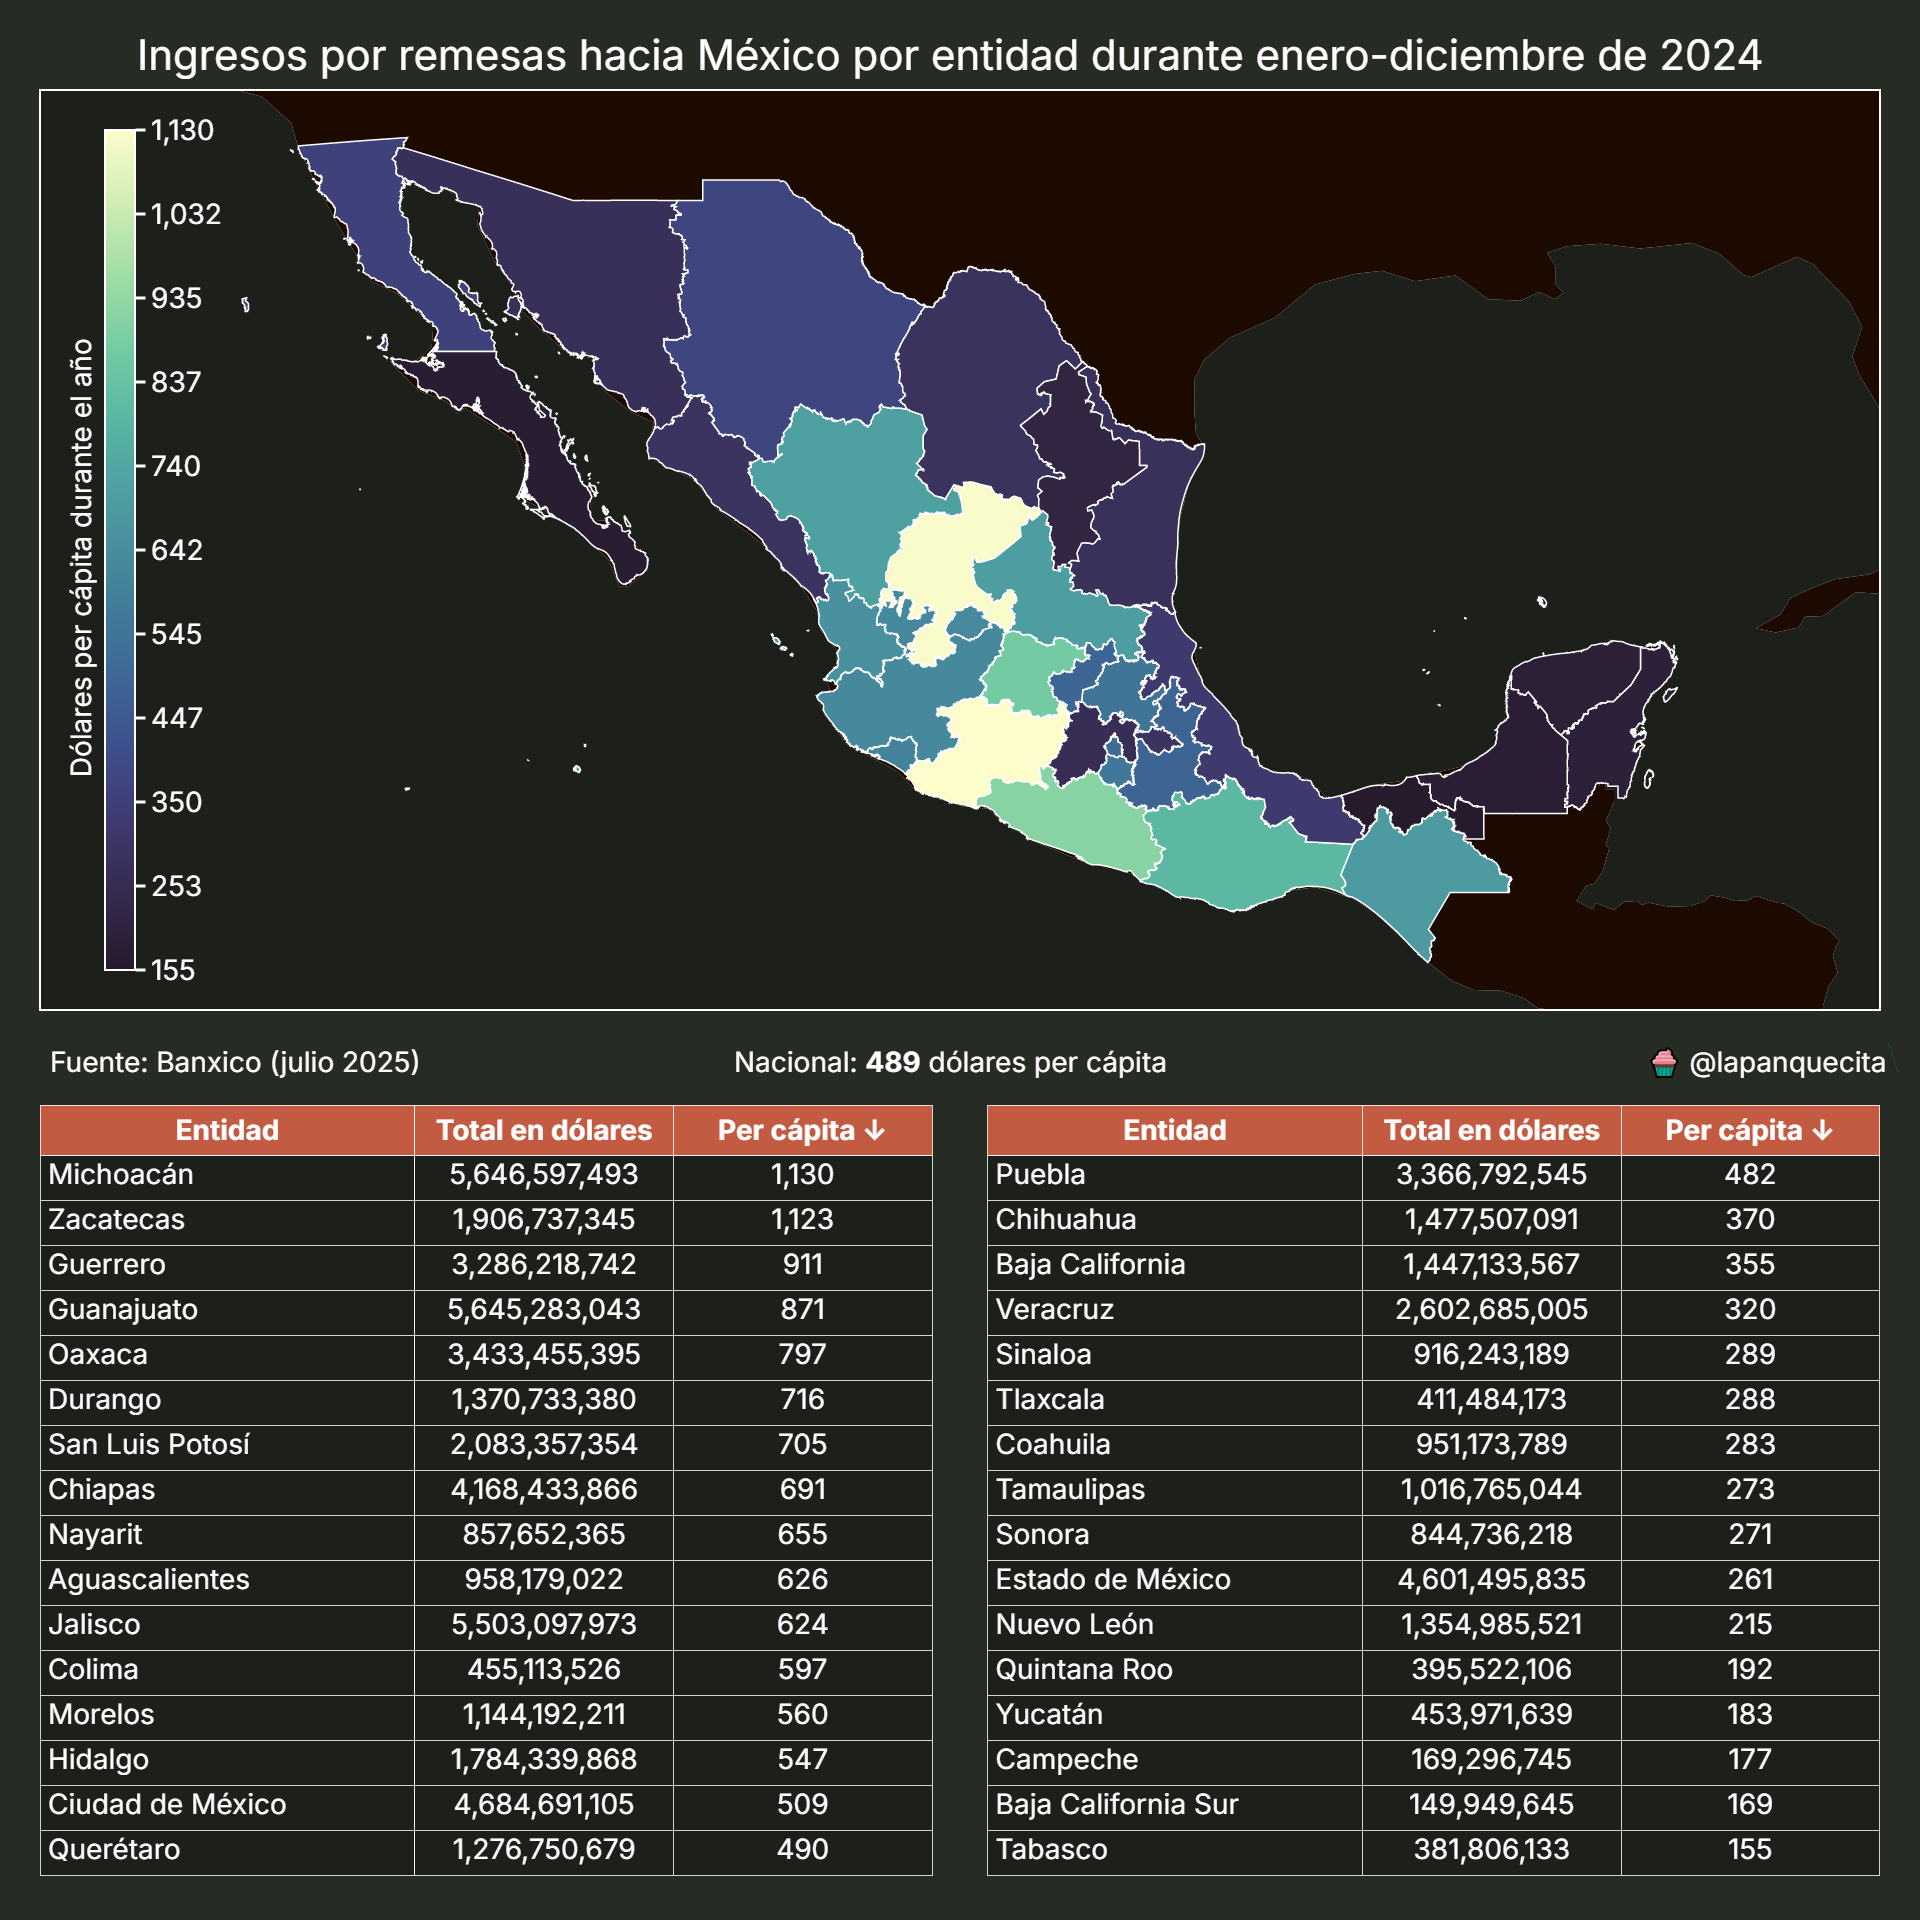
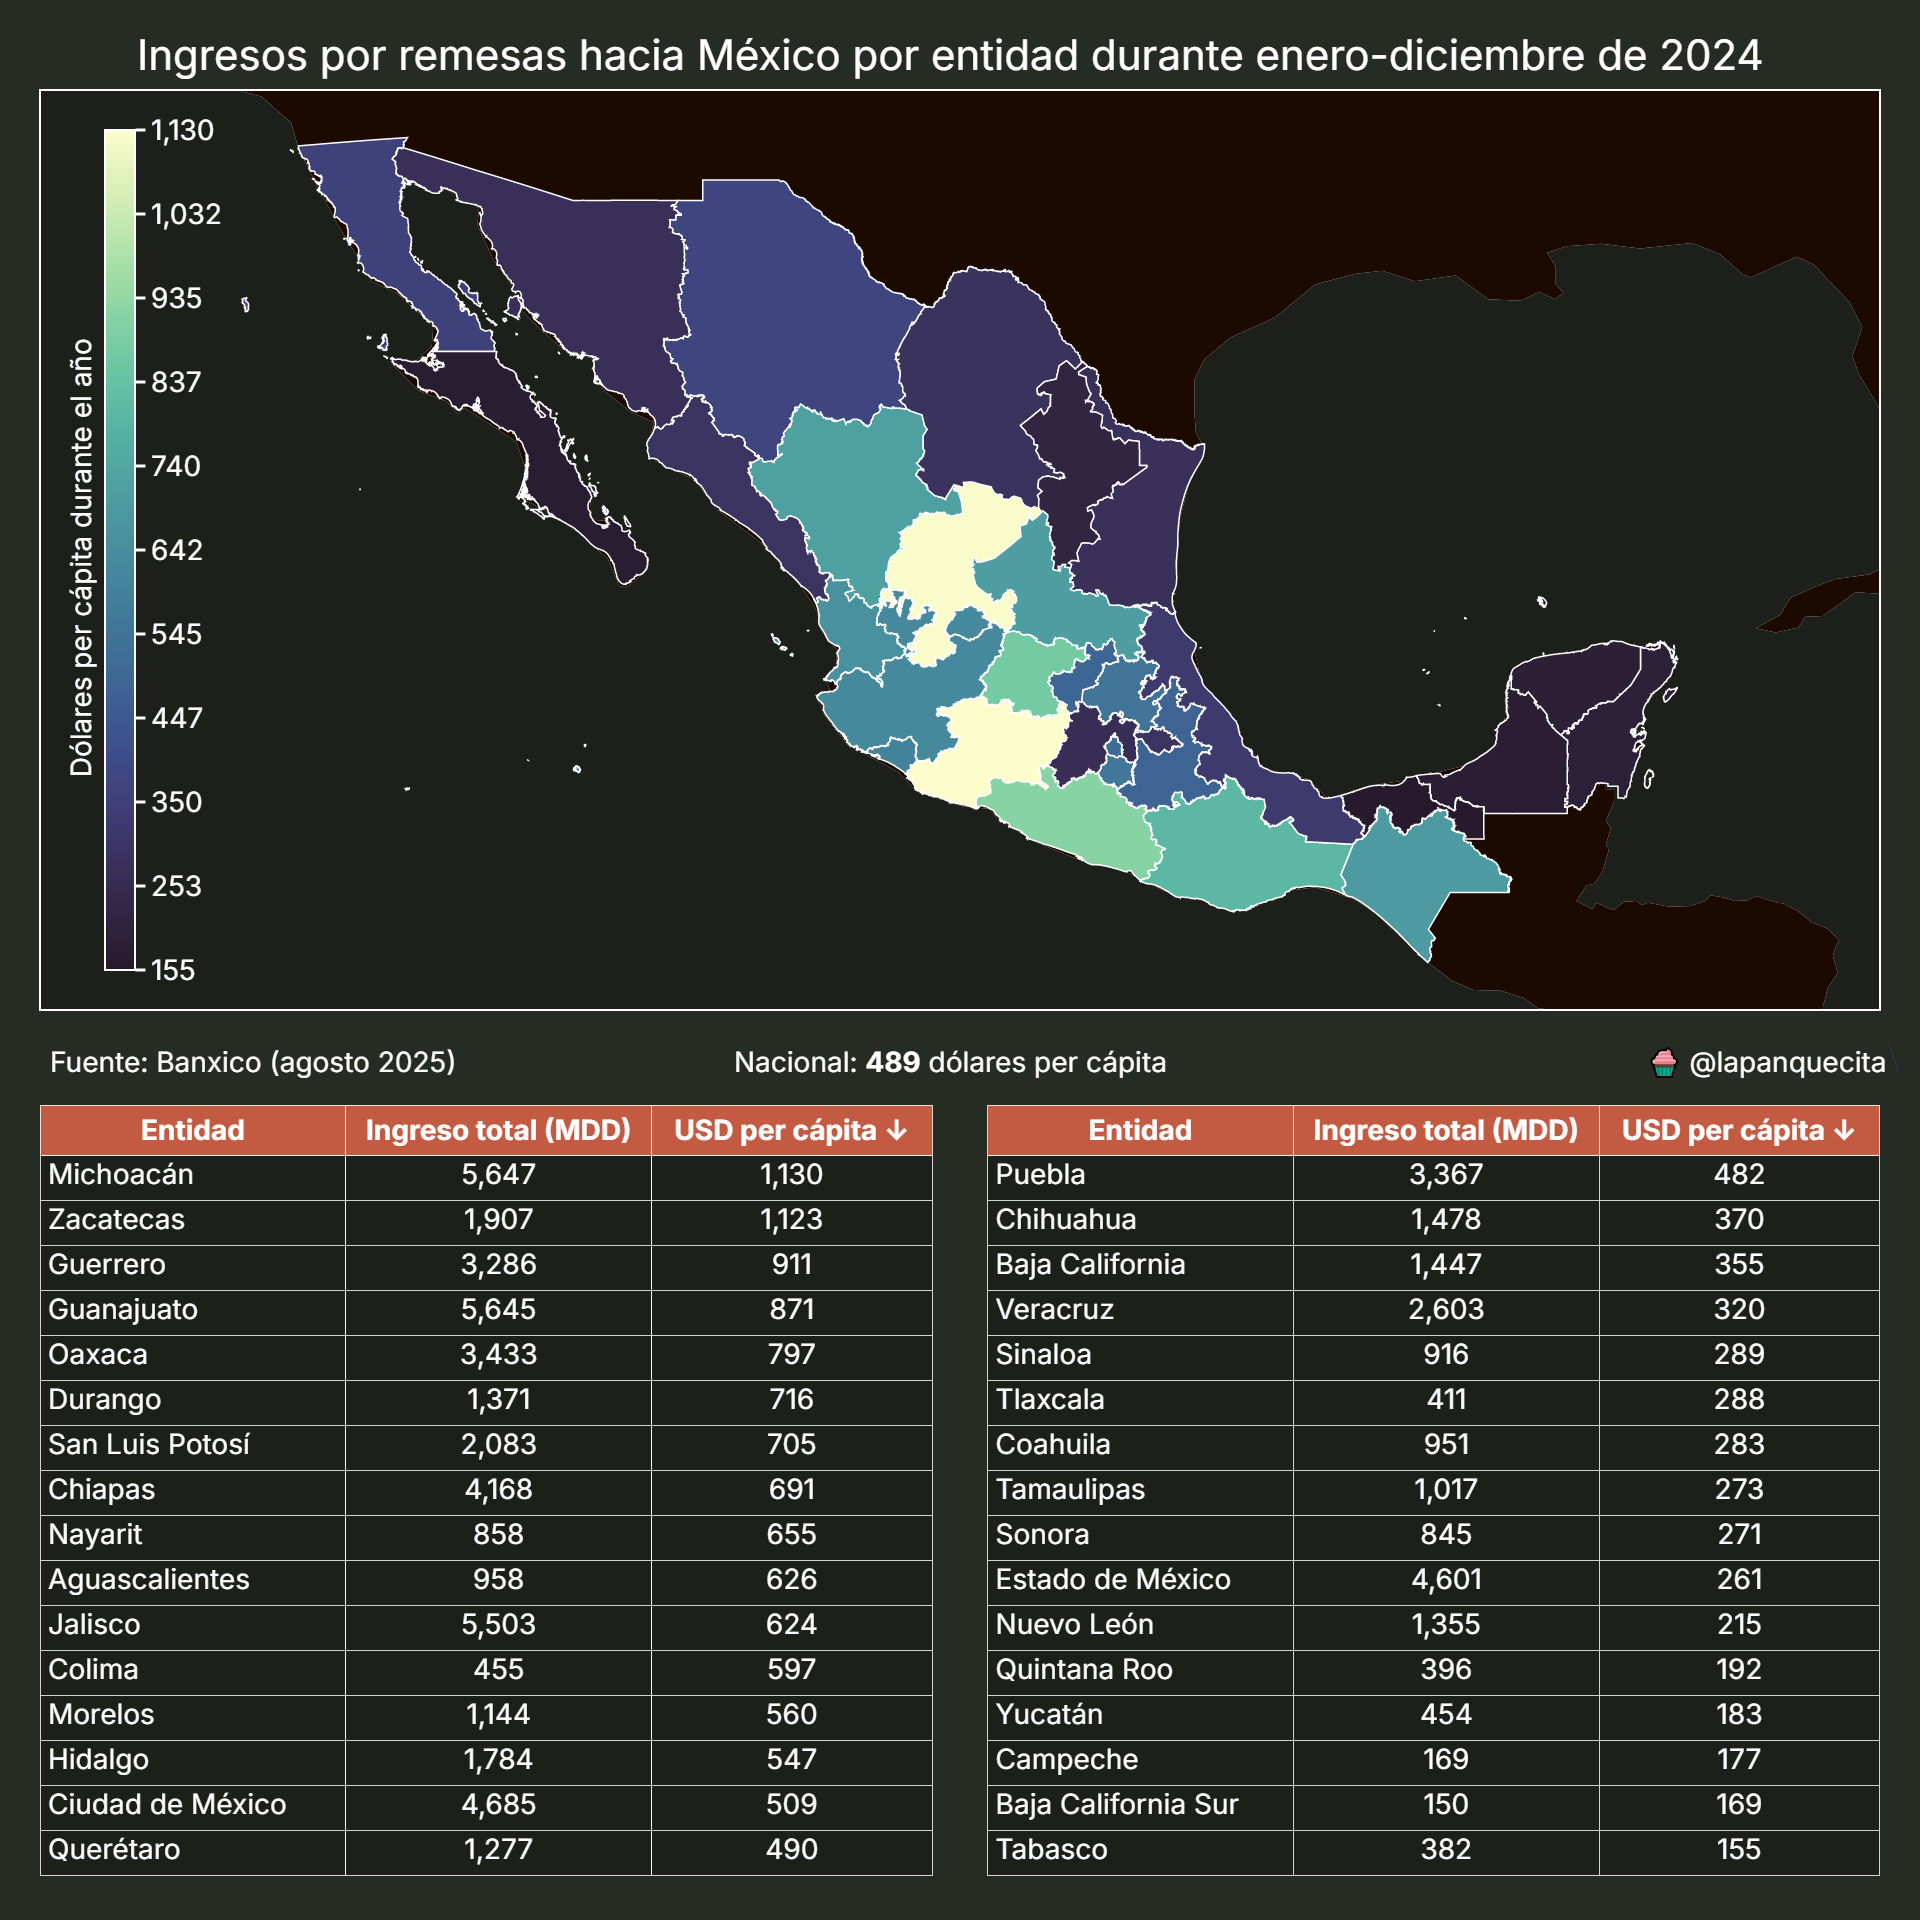
Actualización 2025

diff --git a/remesas_entidad.py b/remesas_entidad.py
@@ -22,7 +22,7 @@ PAPER_COLOR = "#262B23"
 HEADER_COLOR = "#C25B42"
 
 # Mes y año en que se recopilaron los datos.
-FECHA_FUENTE = "julio 2025"
+FECHA_FUENTE = "agosto 2025"
 
 # Periodo de tiempo del análisis.
 PERIODO_TIEMPO = "enero-diciembre"
@@ -49,13 +49,13 @@ def plot_mapa(año):
     pop = pop[str(año)]
 
     # Cargamos el dataset de remesas por entidad.
-    df = pd.read_csv("./data/remesas_entidad.csv", parse_dates=["PERIODO"], index_col=0)
+    df = pd.read_csv("./data/remesas_entidad.csv", parse_dates=["PERIODO"])
 
     # Seleccionamos los reigstros del año especificado.
-    df = df[df.index.year == año]
+    df = df[df["PERIODO"].dt.year == año]
 
     # Calculamos el total por entidad.
-    df = df.groupby("ENTIDAD").sum()
+    df = df.groupby("ENTIDAD").sum(numeric_only=True)
 
     # Calculamos las remesas per cápita para toda la polación.
     subtitulo = (
@@ -189,12 +189,12 @@ def plot_mapa(año):
 
     fig.add_trace(
         go.Table(
-            columnwidth=[145, 100, 100],
+            columnwidth=[120, 120, 110],
             header=dict(
                 values=[
                     "<b>Entidad</b>",
-                    "<b>Total en dólares</b>",
-                    "<b>Per cápita ↓</b>",
+                    "<b>Ingreso total (MDD)</b>",
+                    "<b>USD per cápita ↓</b>",
                 ],
                 font_color="#FFFFFF",
                 fill_color=HEADER_COLOR,
@@ -205,7 +205,7 @@ def plot_mapa(año):
             cells=dict(
                 values=[
                     df.index[:16],
-                    df["VALOR_USD"][:16],
+                    df["VALOR_USD"][:16] / 1000000,
                     df["capita"][:16],
                 ],
                 fill_color=PLOT_COLOR,
@@ -221,12 +221,12 @@ def plot_mapa(año):
 
     fig.add_trace(
         go.Table(
-            columnwidth=[145, 100, 100],
+            columnwidth=[120, 120, 110],
             header=dict(
                 values=[
                     "<b>Entidad</b>",
-                    "<b>Total en dólares</b>",
-                    "<b>Per cápita ↓</b>",
+                    "<b>Ingreso total (MDD)</b>",
+                    "<b>USD per cápita ↓</b>",
                 ],
                 font_color="#FFFFFF",
                 fill_color=HEADER_COLOR,
@@ -237,7 +237,7 @@ def plot_mapa(año):
             cells=dict(
                 values=[
                     df.index[16:],
-                    df["VALOR_USD"][16:],
+                    df["VALOR_USD"][16:] / 1000000,
                     df["capita"][16:],
                 ],
                 fill_color=PLOT_COLOR,
@@ -282,6 +282,175 @@ def plot_mapa(año):
     # Borramos las imágenes originales.
     os.remove("./0.png")
     os.remove("./1.png")
+
+
+def comparacion_interanual(primer_año, segundo_año):
+    """
+    Crea una gráfica de barras horizontal mostrando el cambio
+    porcentual interanual para cada entidad en México.
+
+    Parameters
+    ----------
+    primre_año : int
+        El año base que nos interesa comparar.
+
+    segundo_año : int
+        El año destino que nos interesa comparar.
+
+    """
+
+    # Cargamos el dataset de remesas por entidad.
+    df = pd.read_csv("./data/remesas_entidad.csv", parse_dates=["PERIODO"])
+
+    # Seleccionamos los años dentro de nuestro rango de interés.
+    df = df[
+        (df["PERIODO"].dt.year >= primer_año) & (df["PERIODO"].dt.year <= segundo_año)
+    ]
+
+    # Convertimos las cifras a millones de dólares.
+    df["VALOR_USD"] /= 1000000
+
+    # Transformamos nuestro dataset para que el índice sean los estados y las columnas los años.
+    df = df.pivot_table(
+        index="ENTIDAD",
+        columns=df["PERIODO"].dt.year,
+        values="VALOR_USD",
+        aggfunc="sum",
+    )
+
+    # Calculamos el total nacional.
+    df.loc["<b>Nacional</b>"] = df.sum(axis=0)
+
+    # Calculamos el cambio porcentual.
+    df["cambio"] = (df[segundo_año] - df[primer_año]) / df[primer_año] * 100
+
+    # Preparamos el texto para cada observación.
+    df["texto"] = df.apply(
+        lambda x: f" <b>{x['cambio']:,.0f}%</b> ({x[primer_año]:,.0f} → {x[segundo_año]:,.0f}) "
+        if abs(x["cambio"]) >= 100
+        else f" <b>{x['cambio']:,.1f}%</b> ({x[primer_año]:,.0f} → {x[segundo_año]:,.0f}) ",
+        axis=1,
+    )
+
+    # Ordenamos de mayor a menor basado en el cambio porcentual.
+    df.sort_values("cambio", ascending=False, inplace=True)
+
+    # Calculamos el valor máximo para ajustar el rango del eje horizontal.
+    valor_max = df["cambio"].abs().max()
+    valor_max = ((valor_max // 2) + 2) * 2
+
+    # Determinamos la posición de los textos para cada barra.
+    df["ratio"] = df["cambio"].abs() / valor_max
+    df["texto_pos"] = df["ratio"].apply(lambda x: "inside" if x >= 0.7 else "outside")
+
+    fig = go.Figure()
+
+    fig.add_trace(
+        go.Bar(
+            y=df.index,
+            x=df["cambio"],
+            text=df["texto"],
+            textposition=df["texto_pos"],
+            textfont_color="#FFFFFF",
+            orientation="h",
+            marker_color=df["cambio"],
+            marker_colorscale="geyser_r",
+            marker_cmid=0,
+            marker_line_width=0,
+            textfont_size=30,
+            textfont_family="Oswald",
+        )
+    )
+
+    fig.update_xaxes(
+        range=[valor_max * -1, valor_max],
+        ticksuffix="%",
+        ticks="outside",
+        ticklen=10,
+        zeroline=False,
+        tickcolor="#FFFFFF",
+        linewidth=2,
+        showline=True,
+        gridwidth=0.5,
+        mirror=True,
+        nticks=20,
+    )
+
+    fig.update_yaxes(
+        autorange="reversed",
+        ticks="outside",
+        separatethousands=True,
+        ticklen=10,
+        tickcolor="#FFFFFF",
+        linewidth=2,
+        gridwidth=0.5,
+        showline=True,
+        mirror=True,
+    )
+
+    fig.update_layout(
+        showlegend=False,
+        width=1920,
+        height=1920,
+        font_family="Inter",
+        font_color="#FFFFFF",
+        font_size=24,
+        title_text=f"Comparación del ingreso por remesas en México durante {PERIODO_TIEMPO} ({primer_año} vs. {segundo_año})",
+        title_x=0.5,
+        title_y=0.985,
+        margin_t=80,
+        margin_r=40,
+        margin_b=120,
+        margin_l=280,
+        title_font_size=36,
+        paper_bgcolor=PAPER_COLOR,
+        plot_bgcolor=PLOT_COLOR,
+        annotations=[
+            dict(
+                x=0.99,
+                y=0.0,
+                xref="paper",
+                yref="paper",
+                xanchor="right",
+                yanchor="bottom",
+                align="left",
+                bgcolor="#323232",
+                bordercolor="#FFFFFF",
+                borderwidth=1.5,
+                borderpad=7,
+                text="<b>Nota:</b><br>Cifras expresadas en millones de dólares.",
+            ),
+            dict(
+                x=0.01,
+                y=-0.06,
+                xref="paper",
+                yref="paper",
+                xanchor="left",
+                yanchor="top",
+                text=f"Fuente: Banxico ({FECHA_FUENTE})",
+            ),
+            dict(
+                x=0.58,
+                y=-0.06,
+                xref="paper",
+                yref="paper",
+                xanchor="center",
+                yanchor="top",
+                text="Cambio porcentual (cambio absoluto)",
+            ),
+            dict(
+                x=1.0,
+                y=-0.06,
+                xref="paper",
+                yref="paper",
+                xanchor="right",
+                yanchor="top",
+                text="🧁 @lapanquecita",
+            ),
+        ],
+    )
+
+    fig.write_image(f"./comparacion_entidad_{primer_año}_{segundo_año}.png")
 
 
 def plot_tendencias(primer_año, ultimo_año):
@@ -721,5 +890,6 @@ def comparar_pib(año):
 
 if __name__ == "__main__":
     plot_mapa(2024)
+    comparacion_interanual(2023, 2024)
     plot_tendencias(2015, 2024)
     comparar_pib(2023)

diff --git a/remesas_municipio.py b/remesas_municipio.py
@@ -20,7 +20,7 @@ HEADER_COLOR = "#C25B42"
 
 
 # Mes y año en que se recopilaron los datos.
-FECHA_FUENTE = "julio 2025"
+FECHA_FUENTE = "agosto 2025"
 
 # Periodo de tiempo del análisis.
 PERIODO_TIEMPO = "enero-diciembre"
@@ -357,7 +357,7 @@ def plot_capita(año):
         title_x=0.5,
         title_y=0.95,
         title_font_size=40,
-        title_text=f"Los municipios de México con mayores ingresos por remesas<br><b>per cápita</b> durante {PERIODO_TIEMPO}  de {año}",
+        title_text=f"Los municipios de México con mayores ingresos por remesas<br><b>per cápita</b> durante {PERIODO_TIEMPO} de {año}",
         paper_bgcolor=PAPER_COLOR,
         annotations=[
             dict(
@@ -498,7 +498,7 @@ def plot_absolutos(año):
         title_x=0.5,
         title_y=0.95,
         title_font_size=40,
-        title_text=f"Los municipios de México con mayores ingresos por remesas<br><b>totales</b> durante {PERIODO_TIEMPO}  de {año}",
+        title_text=f"Los municipios de México con mayores ingresos por remesas<br><b>totales</b> durante {PERIODO_TIEMPO} de {año}",
         paper_bgcolor=PAPER_COLOR,
         annotations=[
             dict(
